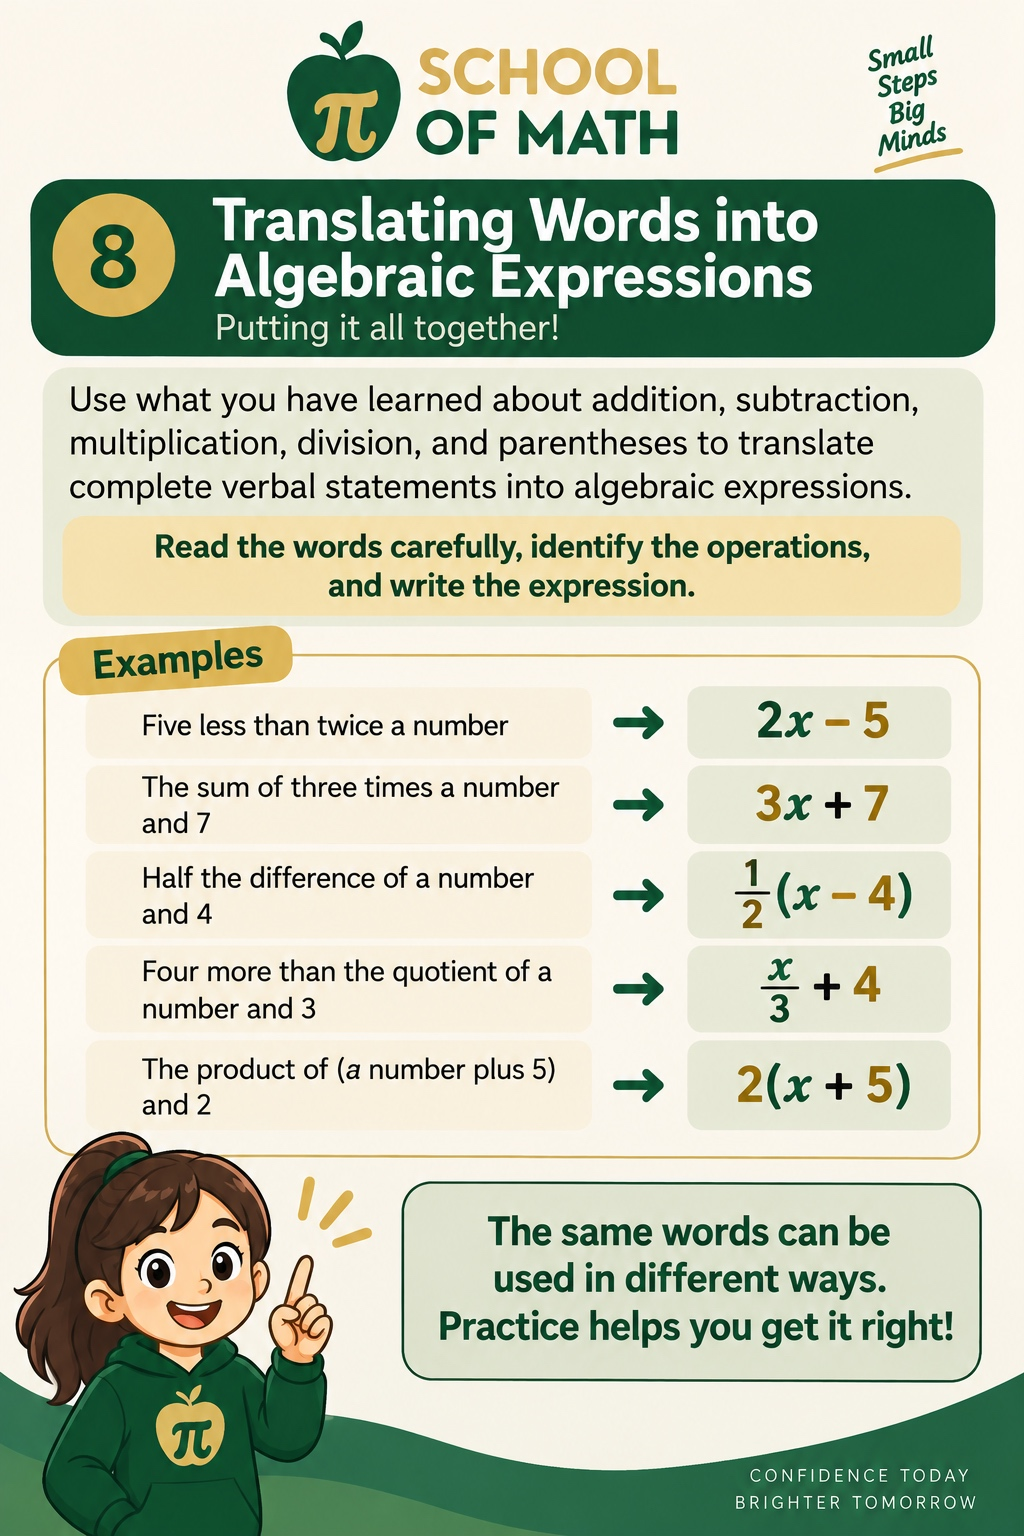
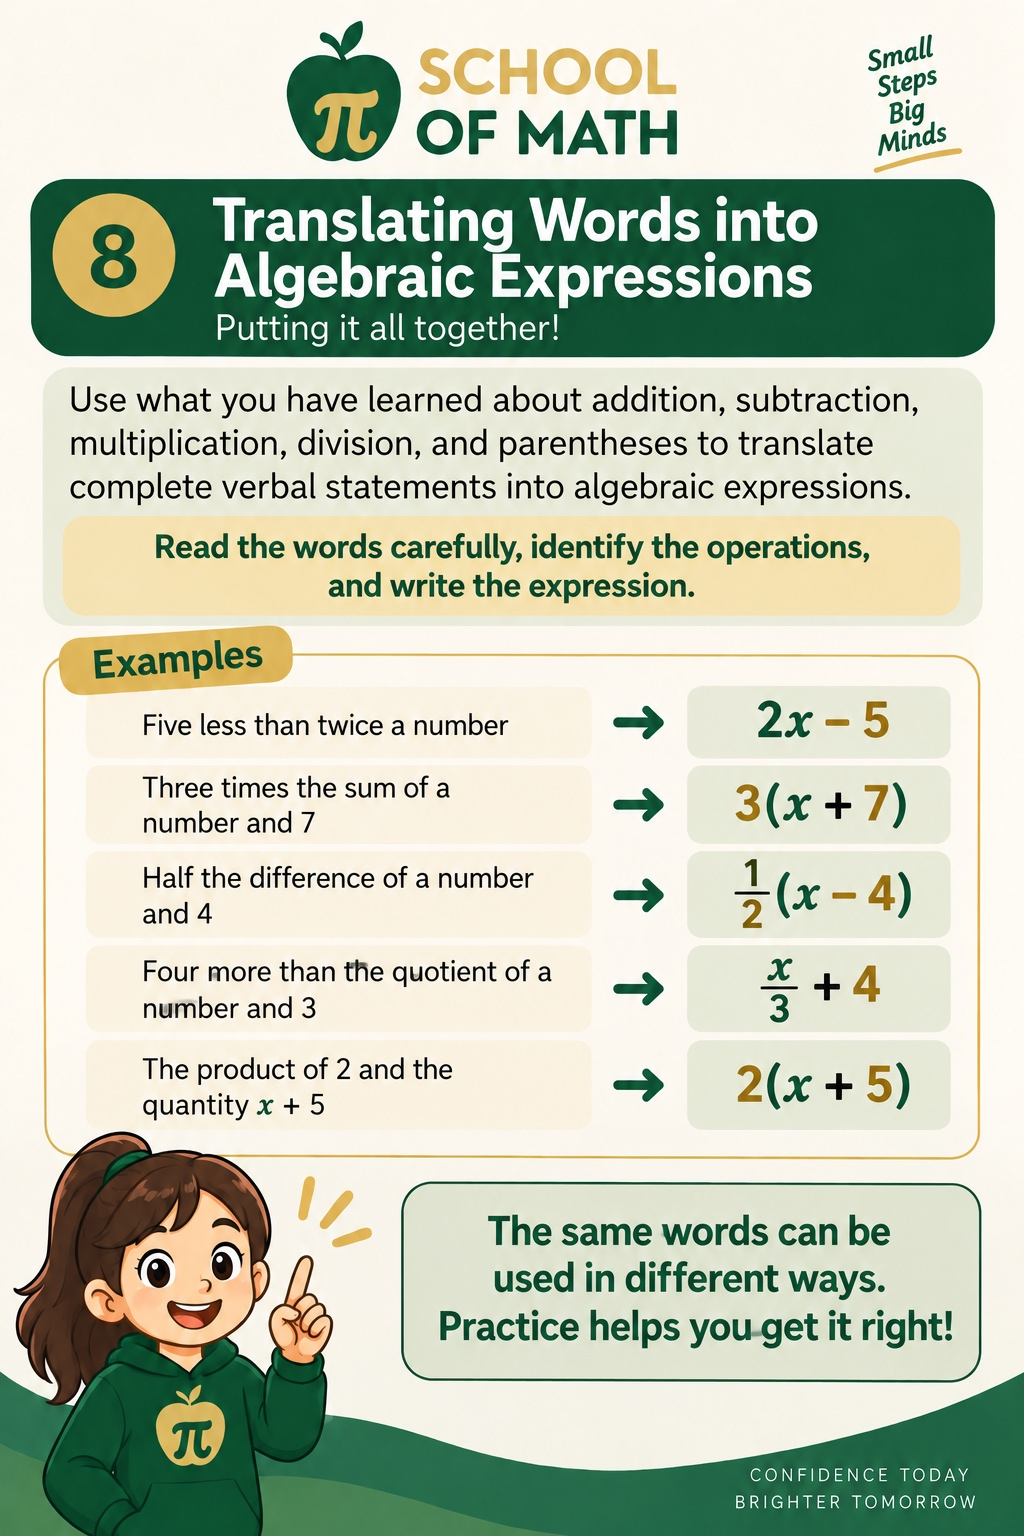
Pre-Algebra Class 11: swap poster 8 for polished SOMATH-branded version; update alt text and worked-example table to match

diff --git a/posts/pre-algebra-class-11-variables-algebraic-expressions-translating-words.html b/posts/pre-algebra-class-11-variables-algebraic-expressions-translating-words.html
@@ -103,7 +103,7 @@
   "description": "Free Young Fermats Pre-Algebra Class 11 from SOMATH on translating words into algebraic expressions. Eight illustrated SOMATH posters walk grades 5–6 through variables vs constants, addition words, subtraction words (with the less-than / subtracted-from order flip), multiplication words, division words, multi-step phrases, using parentheses for the quantity / sum of / difference of, and putting it all together. Full theory under each poster, 40 practice questions with click-to-reveal solutions, plus a bonus set of 10 real-life word problems with hidden step-by-step answers in increasing difficulty (Easy → Challenge). Grades 5–6. Upper West Side NYC.",
   "image": "https://www.schoolofmath.us/assets/blog/pre-algebra-class-11-variables-algebraic-expressions-translating-words/01-variables-and-constants.jpg",
   "datePublished": "2026-09-15",
-  "dateModified": "2026-09-15T20:50:00-04:00",
+  "dateModified": "2026-09-15T21:15:00-04:00",
   "inLanguage": "en-US",
   "educationalLevel": "Grades 5–6",
   "learningResourceType": "Lesson",
@@ -673,7 +673,7 @@
                 <h2>8. Translating words into algebraic expressions</h2>
                 <p>Poster 8 of 8 &mdash; Young Fermats Pre-Algebra Class 11</p>
               </div>
-              <img class="poster-img" src="/assets/blog/pre-algebra-class-11-variables-algebraic-expressions-translating-words/08-translating-words-into-algebra.jpg" alt="SOMATH poster 8: putting it all together. Use everything you have learned about addition, subtraction, multiplication, division, and parentheses to translate complete verbal statements into algebraic expressions. Examples: Five less than twice a number becomes 2x − 5. The sum of three times a number and 7 becomes 3x + 7. Half the difference of a number and 4 becomes (1/2)(x − 4). Four more than the quotient of a number and 3 becomes x/3 + 4. The product of (a number plus 5) and 2 becomes 2(x + 5)." loading="lazy" width="1080" height="1440" />
+              <img class="poster-img" src="/assets/blog/pre-algebra-class-11-variables-algebraic-expressions-translating-words/08-translating-words-into-algebra.jpg" alt="SOMATH poster 8: Translating words into algebraic expressions — putting it all together. Use everything you have learned about addition, subtraction, multiplication, division, and parentheses to translate complete verbal statements into algebraic expressions. Read the words carefully, identify the operations, and write the expression. Examples: Five less than twice a number becomes 2x − 5. Three times the sum of a number and 7 becomes 3(x + 7). Half the difference of a number and 4 becomes (1/2)(x − 4). Four more than the quotient of a number and 3 becomes x/3 + 4. The product of 2 and the quantity x + 5 becomes 2(x + 5). The same words can be used in different ways — practice helps you get it right." loading="lazy" width="1080" height="1440" />
               <div class="theory-box">
                 <h3>Putting it all together</h3>
                 <p>Now you have every tool you need. The 4-step method works for any word phrase, no matter how long:</p>
@@ -687,10 +687,10 @@
                 <table class="words">
                   <tr><th>Phrase</th><th>Expression</th></tr>
                   <tr><td>Five less than twice a number</td><td><span class="eq">2x &minus; 5</span></td></tr>
-                  <tr><td>The sum of three times a number and 7</td><td><span class="eq">3x + 7</span></td></tr>
+                  <tr><td>Three times the sum of a number and 7</td><td><span class="eq">3(x + 7)</span></td></tr>
                   <tr><td>Half the difference of a number and 4</td><td><span class="eq">(1/2)(x &minus; 4)</span></td></tr>
                   <tr><td>Four more than the quotient of a number and 3</td><td><span class="eq">x/3 + 4</span></td></tr>
-                  <tr><td>The product of (a number plus 5) and 2</td><td><span class="eq">2(x + 5)</span></td></tr>
+                  <tr><td>The product of 2 and the quantity <em>x</em> + 5</td><td><span class="eq">2(x + 5)</span></td></tr>
                 </table>
                 <p><strong>Sanity-check trick.</strong> When you're done, plug in a small number for the variable and check that the expression matches what the words describe. If &ldquo;5 less than <em>x</em>&rdquo; is supposed to be <em>x</em> &minus; 5, try <em>x</em> = 10: <em>x</em> &minus; 5 = 5. That matches &ldquo;5 less than 10&rdquo;. If you had written 5 &minus; <em>x</em>, plugging in 10 gives &minus;5 &mdash; a red flag.</p>
                 <p>Class 12 (next class) puts these expressions to work: <strong>evaluating expressions</strong> and <strong>combining like terms</strong>. Class 13 introduces <strong>equations</strong> &mdash; setting two expressions equal to each other and solving for the variable.</p>
